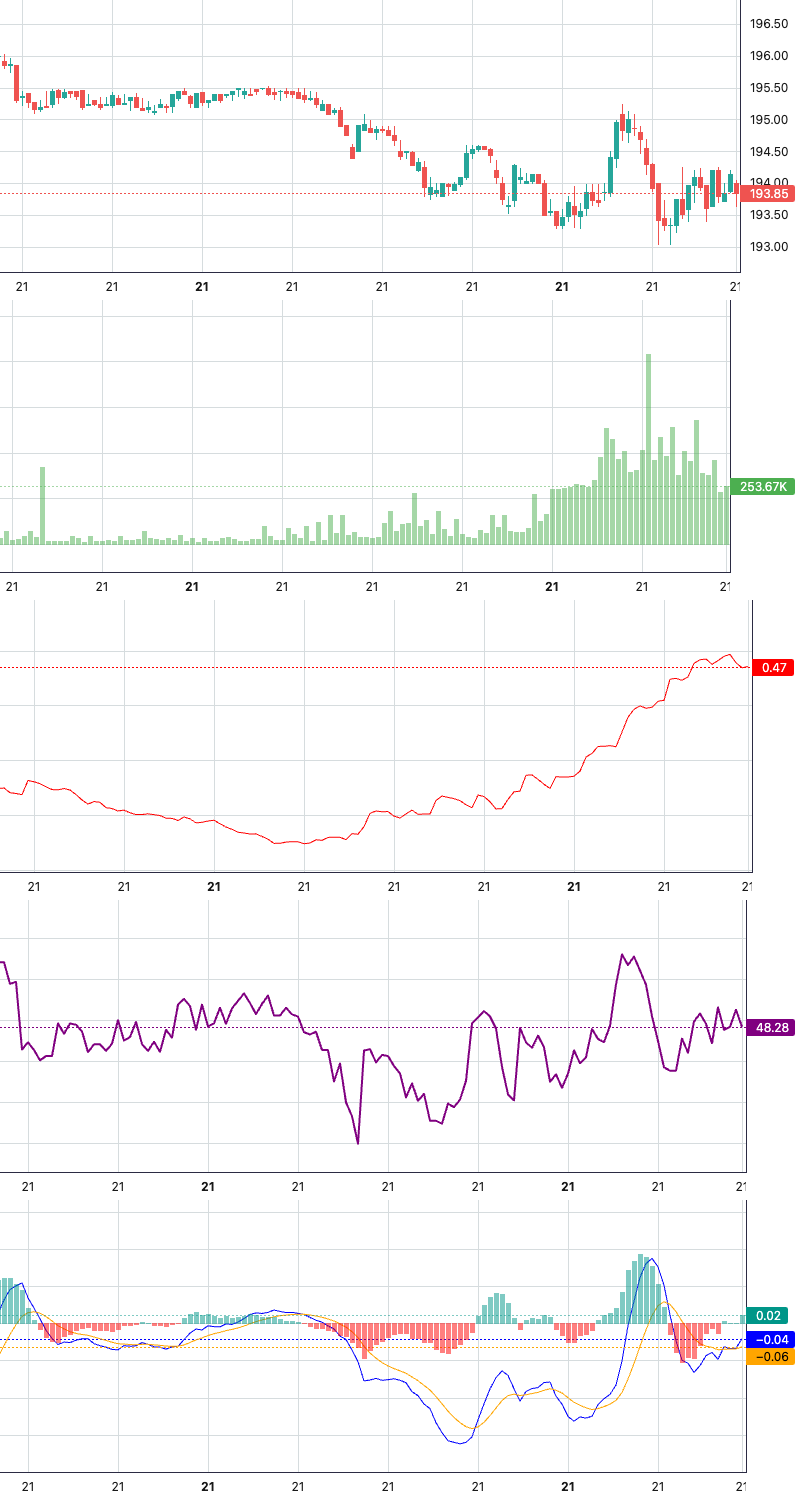
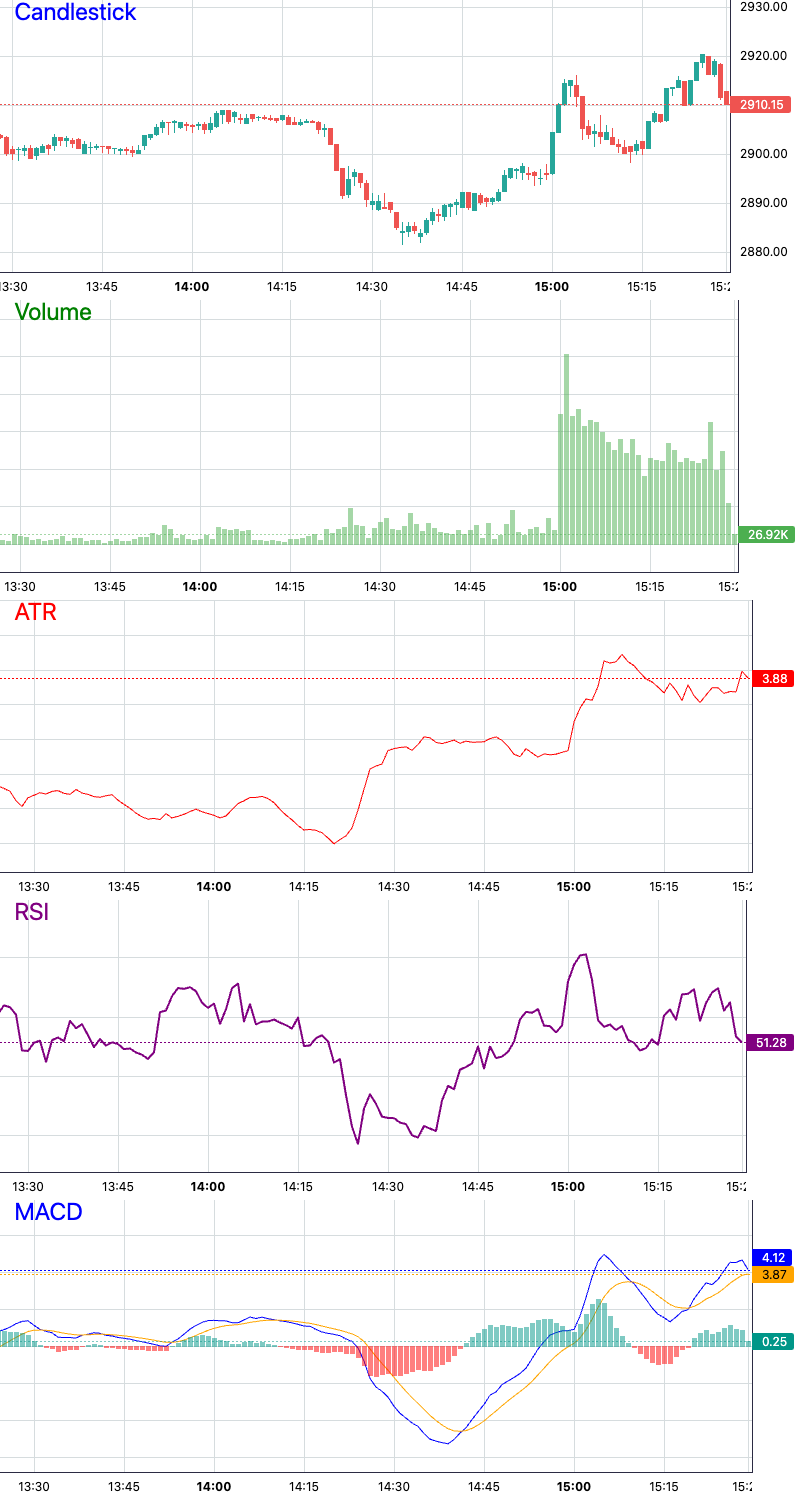
added intervals in param

diff --git a/my-stock-app/server.js b/my-stock-app/server.js
@@ -1,3 +1,4 @@
+// JavaScript (Express) part
 const express = require('express');
 const puppeteer = require('puppeteer');
 const fetch = require('node-fetch');
@@ -8,118 +9,197 @@ const fs = require('fs');
 const app = express();
 const port = 3000;
 
-const formatDateForChart = (date) => {
-    if (!date) return null;
-    if (date instanceof Date) {
-        console.log(date.toISOString().split('T')[0])
-        return date.toISOString().split('T')[0];
-    } else if (typeof date === 'string') {
-        console.log(date.split('T')[0])
-        return date.split('T')[0];
-    }
-    return date;
-};
-
 const generateChart = async (symbol, indicatorType, data) => {
     const browser = await puppeteer.launch({ headless: true });
     const page = await browser.newPage();
 
     let chartScript = '';
 
+    const formatTime = (time) => {
+        const date = new Date(time * 1000);
+        return date.toLocaleDateString();
+    };
+
     switch (indicatorType) {
         case 'candlestick':
             chartScript = `
-                const chart = LightweightCharts.createChart(document.getElementById('chart'), { width: 800, height: 300 });
-                const candleSeries = chart.addCandlestickSeries();
-                candleSeries.setData(${JSON.stringify(data)});
+                <!DOCTYPE html>
+                <html>
+                <head>
+                    <title>Candlestick Chart</title>
+                    <style>
+                        body, html { margin: 0; padding: 0; height: 100%; }
+                        #chart { width: 100%; height: 100%; }
+                    </style>
+                    <script src="https://unpkg.com/lightweight-charts/dist/lightweight-charts.standalone.production.js"></script>
+                </head>
+                <body>
+                    <div id="chart"></div>
+                    <script>
+                        const chart = LightweightCharts.createChart(document.getElementById('chart'), { width: 800, height: 300 });
+                        chart.applyOptions({
+                            layout: { textColor: '#000' },
+                            watermark: { color: 'blue', visible: true, text: 'Candlestick', fontSize: 24, horzAlign: 'left', vertAlign: 'top' },
+                            timeScale: { timeVisible: true, timeFormatter: ${formatTime.toString()} }
+                        });
+                        const candleSeries = chart.addCandlestickSeries();
+                        candleSeries.setData(${JSON.stringify(data)});
+                    </script>
+                </body>
+                </html>
             `;
             break;
         case 'volume':
             chartScript = `
-                const chart = LightweightCharts.createChart(document.getElementById('chart'), { width: 800, height: 300 });
-                const volumeSeries = chart.addHistogramSeries({
-                    color: 'rgba(76, 175, 80, 0.5)',
-                    priceFormat: {
-                        type: 'volume',
-                    },
-                    priceScaleId: '',
-                    scaleMargins: {
-                        top: 0.9,
-                        bottom: 0,
-                    },
-                });
-                volumeSeries.setData(${JSON.stringify(data)});
+                <!DOCTYPE html>
+                <html>
+                <head>
+                    <title>Volume Chart</title>
+                    <style>
+                        body, html { margin: 0; padding: 0; height: 100%; }
+                        #chart { width: 100%; height: 100%; }
+                    </style>
+                    <script src="https://unpkg.com/lightweight-charts/dist/lightweight-charts.standalone.production.js"></script>
+                </head>
+                <body>
+                    <div id="chart"></div>
+                    <script>
+                        const chart = LightweightCharts.createChart(document.getElementById('chart'), { width: 800, height: 300 });
+                        chart.applyOptions({
+                            layout: { textColor: '#000' },
+                            watermark: { color: 'green', visible: true, text: 'Volume', fontSize: 24, horzAlign: 'left', vertAlign: 'top' },
+                            timeScale: { timeVisible: true, timeFormatter: ${formatTime.toString()} }
+                        });
+                        const volumeSeries = chart.addHistogramSeries({
+                            color: 'rgba(76, 175, 80, 0.5)',
+                            priceFormat: {
+                                type: 'volume',
+                            },
+                            priceScaleId: '',
+                            scaleMargins: {
+                                top: 0.9,
+                                bottom: 0,
+                            },
+                        });
+                        volumeSeries.setData(${JSON.stringify(data)});
+                    </script>
+                </body>
+                </html>
             `;
             break;
         case 'atr':
             chartScript = `
-                const chart = LightweightCharts.createChart(document.getElementById('chart'), { width: 800, height: 300 });
-                const atrSeries = chart.addLineSeries({
-                    color: 'red',
-                    lineWidth: 1,
-                    priceScaleId: '',
-                });
-                atrSeries.setData(${JSON.stringify(data)});
+                <!DOCTYPE html>
+                <html>
+                <head>
+                    <title>ATR Chart</title>
+                    <style>
+                        body, html { margin: 0; padding: 0; height: 100%; }
+                        #chart { width: 100%; height: 100%; }
+                    </style>
+                    <script src="https://unpkg.com/lightweight-charts/dist/lightweight-charts.standalone.production.js"></script>
+                </head>
+                <body>
+                    <div id="chart"></div>
+                    <script>
+                        const chart = LightweightCharts.createChart(document.getElementById('chart'), { width: 800, height: 300 });
+                        chart.applyOptions({
+                            layout: { textColor: '#000' },
+                            watermark: { color: 'red', visible: true, text: 'ATR', fontSize: 24, horzAlign: 'left', vertAlign: 'top' },
+                            timeScale: { timeVisible: true, timeFormatter: ${formatTime.toString()} }
+                        });
+                        const atrSeries = chart.addLineSeries({
+                            color: 'red',
+                            lineWidth: 1,
+                            priceScaleId: '',
+                        });
+                        atrSeries.setData(${JSON.stringify(data)});
+                    </script>
+                </body>
+                </html>
             `;
             break;
         case 'rsi':
             chartScript = `
-                const chart = LightweightCharts.createChart(document.getElementById('chart'), { width: 800, height: 300 });
-                const rsiSeries = chart.addLineSeries({
-                    color: 'purple',
-                    lineWidth: 2,
-                    priceScaleId: '',
-                });
-                rsiSeries.setData(${JSON.stringify(data)});
+                <!DOCTYPE html>
+                <html>
+                <head>
+                    <title>RSI Chart</title>
+                    <style>
+                        body, html { margin: 0; padding: 0; height: 100%; }
+                        #chart { width: 100%; height: 100%; }
+                    </style>
+                    <script src="https://unpkg.com/lightweight-charts/dist/lightweight-charts.standalone.production.js"></script>
+                </head>
+                <body>
+                    <div id="chart"></div>
+                    <script>
+                        const chart = LightweightCharts.createChart(document.getElementById('chart'), { width: 800, height: 300 });
+                        chart.applyOptions({
+                            layout: { textColor: '#000' },
+                            watermark: { color: 'purple', visible: true, text: 'RSI', fontSize: 24, horzAlign: 'left', vertAlign: 'top' },
+                            timeScale: { timeVisible: true, timeFormatter: ${formatTime.toString()} }
+                        });
+                        const rsiSeries = chart.addLineSeries({
+                            color: 'purple',
+                            lineWidth: 2,
+                            priceScaleId: '',
+                        });
+                        rsiSeries.setData(${JSON.stringify(data)});
+                    </script>
+                </body>
+                </html>
             `;
             break;
         case 'macd':
             chartScript = `
-                const chart = LightweightCharts.createChart(document.getElementById('chart'), { width: 800, height: 300 });
-                const macdLineSeries = chart.addLineSeries({
-                    color: 'blue',
-                    lineWidth: 1,
-                    priceScaleId: '',
-                });
-                macdLineSeries.setData(${JSON.stringify(data.macdLine)});
+                <!DOCTYPE html>
+                <html>
+                <head>
+                    <title>MACD Chart</title>
+                    <style>
+                        body, html { margin: 0; padding: 0; height: 100%; }
+                        #chart { width: 100%; height: 100%; }
+                    </style>
+                    <script src="https://unpkg.com/lightweight-charts/dist/lightweight-charts.standalone.production.js"></script>
+                </head>
+                <body>
+                    <div id="chart"></div>
+                    <script>
+                        const chart = LightweightCharts.createChart(document.getElementById('chart'), { width: 800, height: 300 });
+                        chart.applyOptions({
+                            layout: { textColor: '#000' },
+                            watermark: { color: 'blue', visible: true, text: 'MACD', fontSize: 24, horzAlign: 'left', vertAlign: 'top' },
+                            timeScale: { timeVisible: true, timeFormatter: ${formatTime.toString()} }
+                        });
+                        const macdLineSeries = chart.addLineSeries({
+                            color: 'blue',
+                            lineWidth: 1,
+                            priceScaleId: '',
+                        });
+                        macdLineSeries.setData(${JSON.stringify(data.macdLine)});
 
-                const signalLineSeries = chart.addLineSeries({
-                    color: 'orange',
-                    lineWidth: 1,
-                    priceScaleId: '',
-                });
-                signalLineSeries.setData(${JSON.stringify(data.signalLine)});
+                        const signalLineSeries = chart.addLineSeries({
+                            color: 'orange',
+                            lineWidth: 1,
+                            priceScaleId: '',
+                        });
+                        signalLineSeries.setData(${JSON.stringify(data.signalLine)});
 
-                const histogramSeries = chart.addHistogramSeries({
-                    color: 'rgba(255, 0, 0, 0.5)',
-                    lineWidth: 1,
-                    priceScaleId: '',
-                });
-                histogramSeries.setData(${JSON.stringify(data.histogram)});
+                        const histogramSeries = chart.addHistogramSeries({
+                            color: 'rgba(255, 0, 0, 0.5)',
+                            lineWidth: 1,
+                            priceScaleId: '',
+                        });
+                        histogramSeries.setData(${JSON.stringify(data.histogram)});
+                    </script>
+                </body>
+                </html>
             `;
             break;
     }
 
-    await page.setContent(`
-        <!DOCTYPE html>
-        <html>
-        <head>
-            <title>${indicatorType} Chart</title>
-            <style>
-                body, html { margin: 0; padding: 0; height: 100%; }
-                #chart { width: 100%; height: 100%; }
-            </style>
-            <script src="https://unpkg.com/lightweight-charts/dist/lightweight-charts.standalone.production.js"></script>
-        </head>
-        <body>
-            <div id="chart"></div>
-            <script>
-                ${chartScript}
-            </script>
-        </body>
-        </html>
-    `);
-
+    await page.setContent(chartScript);
     await page.waitForSelector('#chart');
     const chart = await page.$('#chart');
     const screenshotPath = `./${symbol}-${indicatorType}.png`;
@@ -129,17 +209,17 @@ const generateChart = async (symbol, indicatorType, data) => {
     return screenshotPath;
 };
 
-const fetchStockDataFromAPI = async (symbol) => {
-    const response = await fetch(`http://127.0.0.1:5000/api/data/${symbol}`);
+const fetchStockDataFromAPI = async (symbol, period, interval) => {
+    const response = await fetch(`http://127.0.0.1:5000/api/data/${symbol}/${period}/${interval}`);
     const data = await response.json();
     return data;
 };
 
-app.get('/generate-chart/:symbol', async (req, res) => {
-    const symbol = req.params.symbol;
+app.get('/generate-chart/:symbol/:period/:interval', async (req, res) => {
+    const { symbol, period, interval } = req.params;
 
     try {
-        const stockData = await fetchStockDataFromAPI(symbol);
+        const stockData = await fetchStockDataFromAPI(symbol, period, interval);
 
         const chartData = stockData.map(entry => ({
             time: new Date(entry.Datetime).getTime() / 1000,
@@ -196,7 +276,6 @@ app.get('/generate-chart/:symbol', async (req, res) => {
         }));
 
         const candlestickPath = await generateChart(symbol, 'candlestick', chartData);
-        console.log(chartData)
         const volumePath = await generateChart(symbol, 'volume', volumeData);
         const atrPath = await generateChart(symbol, 'atr', atrData);
         const rsiPath = await generateChart(symbol, 'rsi', rsiData);
@@ -222,7 +301,7 @@ app.get('/generate-chart/:symbol', async (req, res) => {
         .toBuffer();
 
         // Write the combined image to a file
-        const combinedImagePath = `./combined-chart.png`;
+        const combinedImagePath = `./${symbol}-${interval}chart.png`;
         await fs.promises.writeFile(combinedImagePath, combinedImage);
 
         res.sendFile(combinedImagePath, { root: __dirname });

diff --git a/app.py b/app.py
@@ -5,24 +5,27 @@ from flask_cors import CORS
 app = Flask(__name__)
 CORS(app)
 
-def fetch_stock_data(ticker):
-    # Downloading the stock data using yfinance with a daily interval
-    data = yf.download(tickers=ticker, period="5d", interval="15m")
+def fetch_stock_data(ticker, period, interval):
+    # Downloading the stock data using yfinance with specified period and interval
+    data = yf.download(tickers=ticker, period=period, interval=interval)
     data.reset_index(inplace=True)
     
     # Check if 'Date' column is present, rename it to 'Datetime' if so
     if 'Date' in data.columns:
         data.rename(columns={'Date': 'Datetime'}, inplace=True)
-        data['Datetime'] = data['Datetime'].dt.strftime('%Y-%m-%d')
+        
+    # Convert 'Datetime' to ISO format
+    if 'Datetime' in data.columns:
+        data['Datetime'] = data['Datetime'].dt.strftime('%Y-%m-%dT%H:%M:%SZ')
     
     # Including volume in the formatted data
     formatted_data = data[['Datetime', 'Open', 'High', 'Low', 'Close', 'Volume']].to_dict(orient='records')
     return formatted_data
 
-@app.route('/api/data/<ticker>')
-def get_data(ticker):
-    # Fetching stock data
-    stock_data = fetch_stock_data(ticker)
+@app.route('/api/data/<ticker>/<period>/<interval>')
+def get_data(ticker, period, interval):
+    # Fetching stock data with specified period and interval
+    stock_data = fetch_stock_data(ticker, period, interval)
     # Returning JSON response
     return jsonify(stock_data)
 
